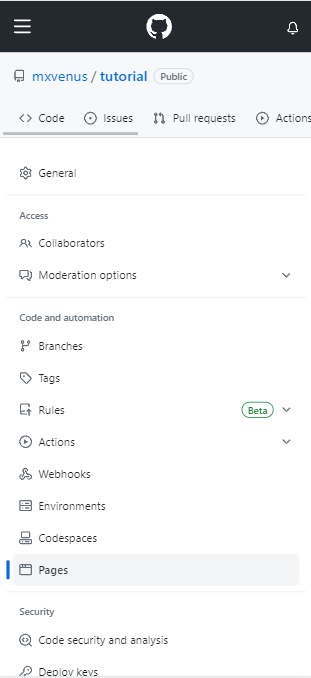
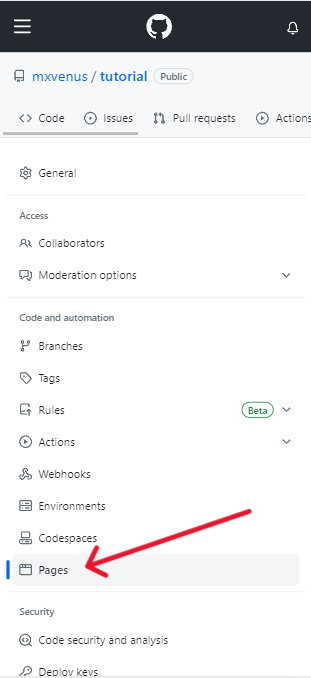
Tutorial

Changed region(s): [[0.2605, 0.7434, 0.8103, 0.8673]]

diff --git a/README.md b/README.md
@@ -5,7 +5,26 @@ How to host your HTML Website using Github Pages
 ## For Mobile Devices
 
 ### 1. Open github.com on your browser
-![Open Github](./images/01.png)
+![Open Github](./images/00.png)
 
-### 2. 
-![Click on your Project Repository](./images/02.png)
+### 2. Click on your github project Repository
+![Click on your Project Repository](./images/01.png)
+
+### 3. Drag along the scrollable menu and click on settings
+![Gif](./images/03.gif)
+
+### 4. Click on pages 
+![Pages](./images/04.png)
+
+### 5. Scroll to the bottom and Select the main branch and click save
+![Deploy](./images/05.gif)
+
+### 6. Scroll to the top and click on your Repository link and scroll to bottom and click on github-pages
+![Check Environment](./images/06.gif)
+
+### 7. Click on View Deployment Button
+![Copy The Link](./images/07.png)
+
+### 8. Copy the link and share... 
+![Share](./images/08.jpg)
+
